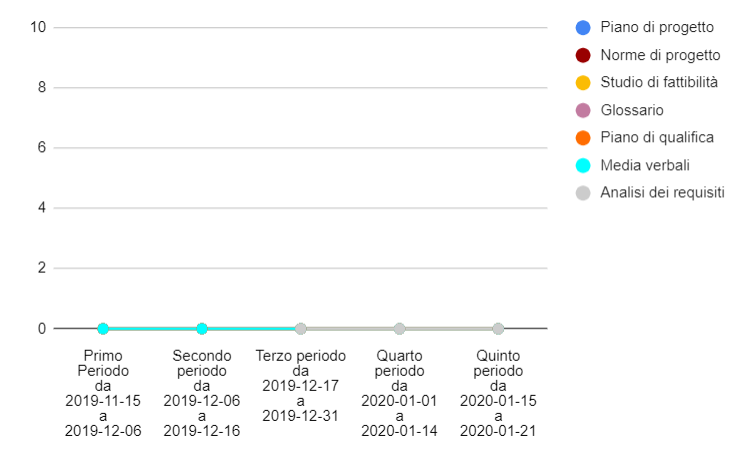
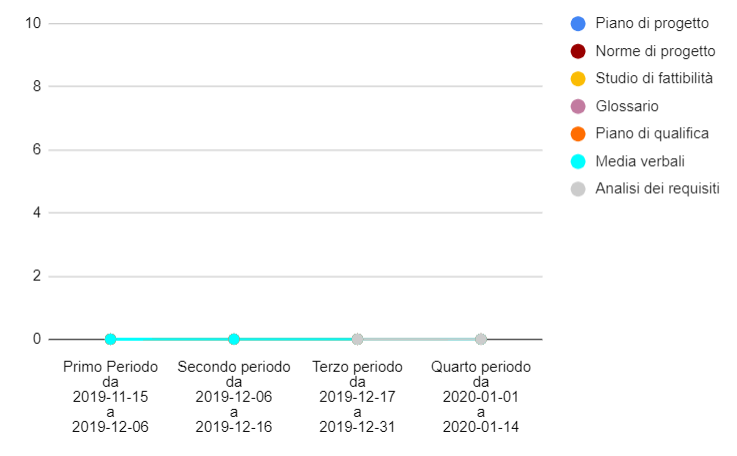
Rimosso dai grafici il periodo 5 e aggiunto grafico rischi non preventivati

diff --git a/esterni/piano_qualifica/res/sections/Sez3-QualitaDiProcesso/QualitaDiProcesso.tex b/esterni/piano_qualifica/res/sections/Sez3-QualitaDiProcesso/QualitaDiProcesso.tex
@@ -83,6 +83,15 @@ I processi monitorati con delle metriche precise di qualità sono i seguenti:
 				\caption{Indici di qualità per le metriche di Gestione dei Rischi}
 				\end{longtable}
 			\end{center}
+			
+			Di seguito il grafico che rappresenta i rischi non preventivati per il periodo di Analisi dei Requisiti:
+			
+			\begin{figure}[H]
+				\centering
+				\includegraphics[width=0.8\linewidth]{./res/images/rischi.png}
+				\caption{Grafico periodo/rischio nel periodo di Analisi dei Requisiti}
+				\label{fig:Grafico rischi periodo di Analisi dei Requisiti}
+			\end{figure}
 
 %	\subsubsection{QP-3. Analisi dei Requisiti}
 %
